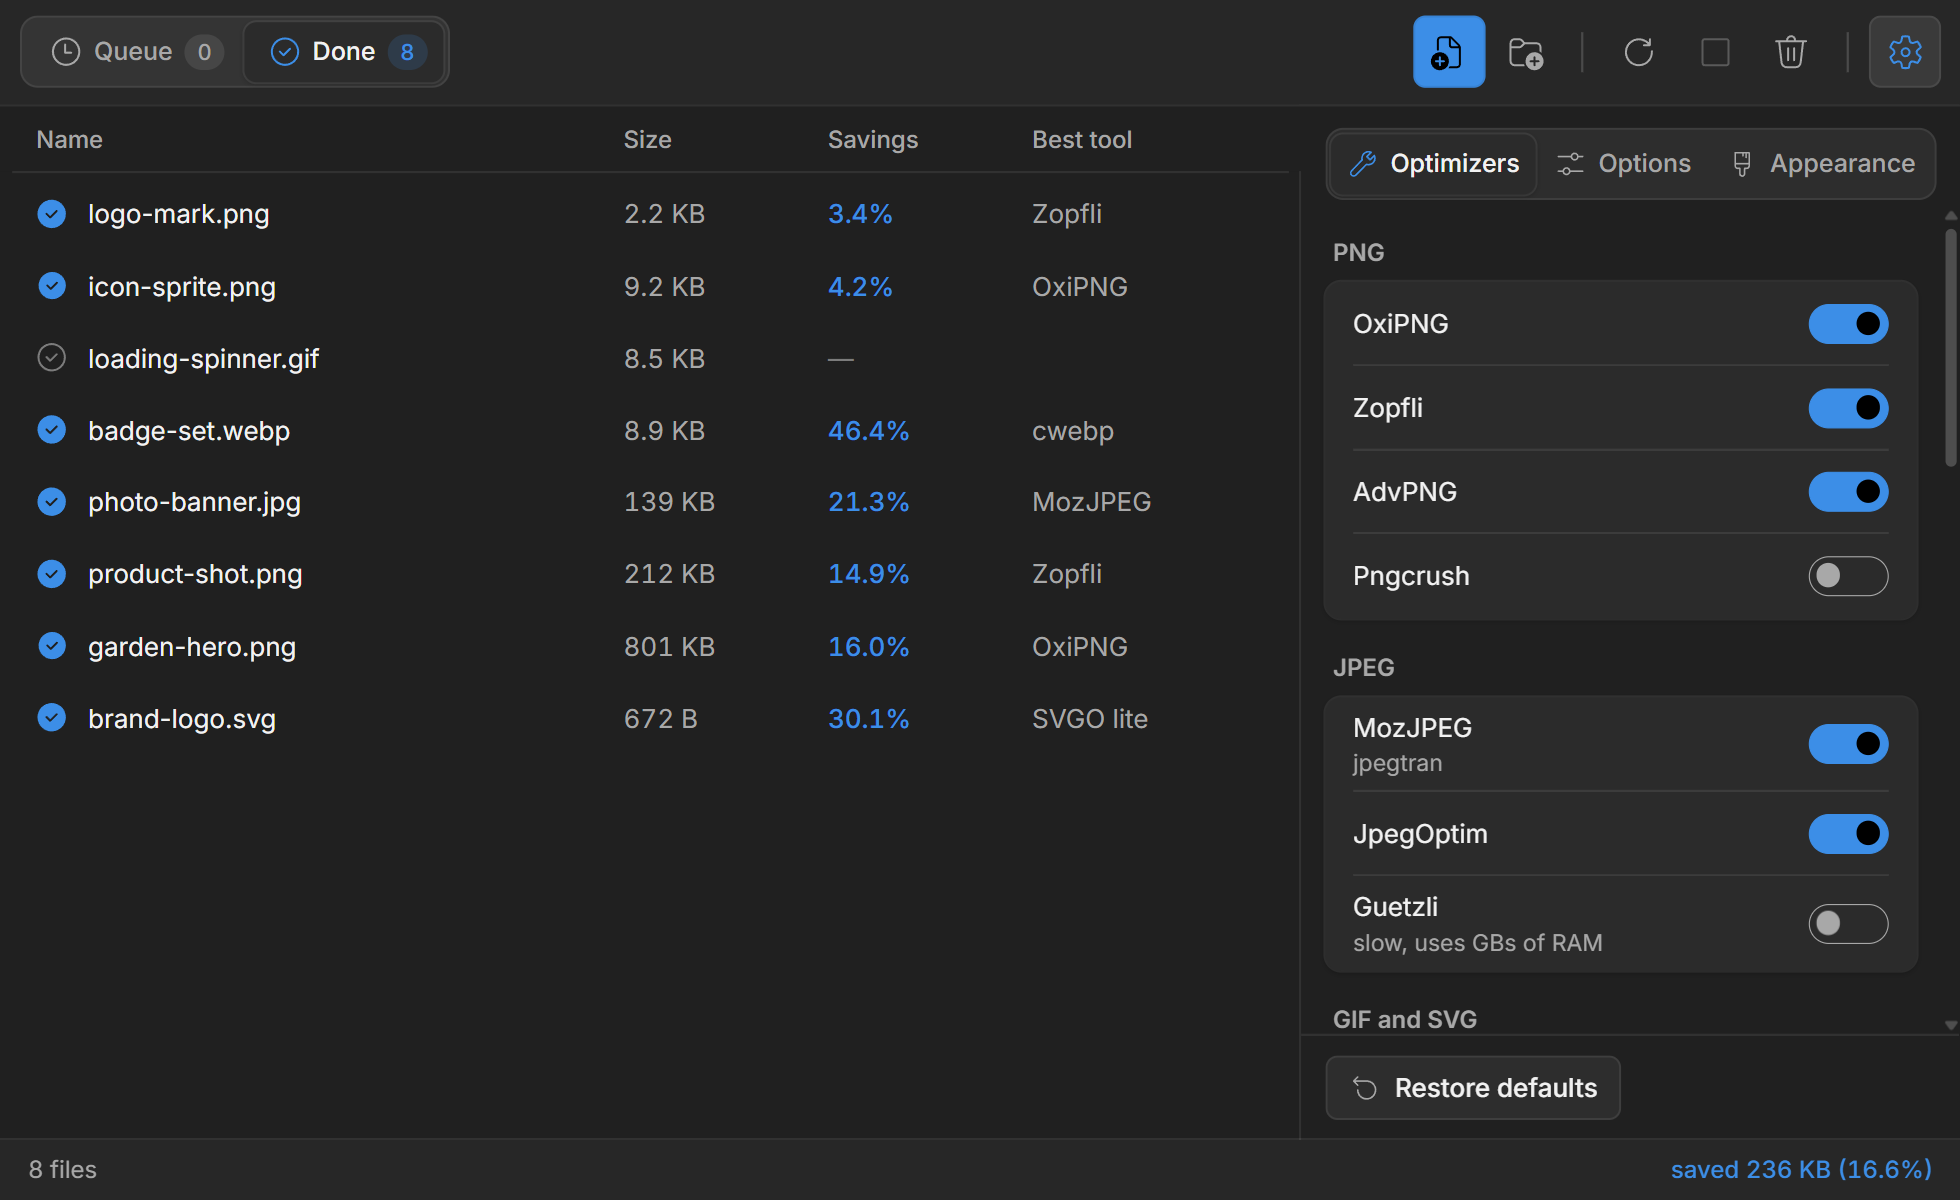
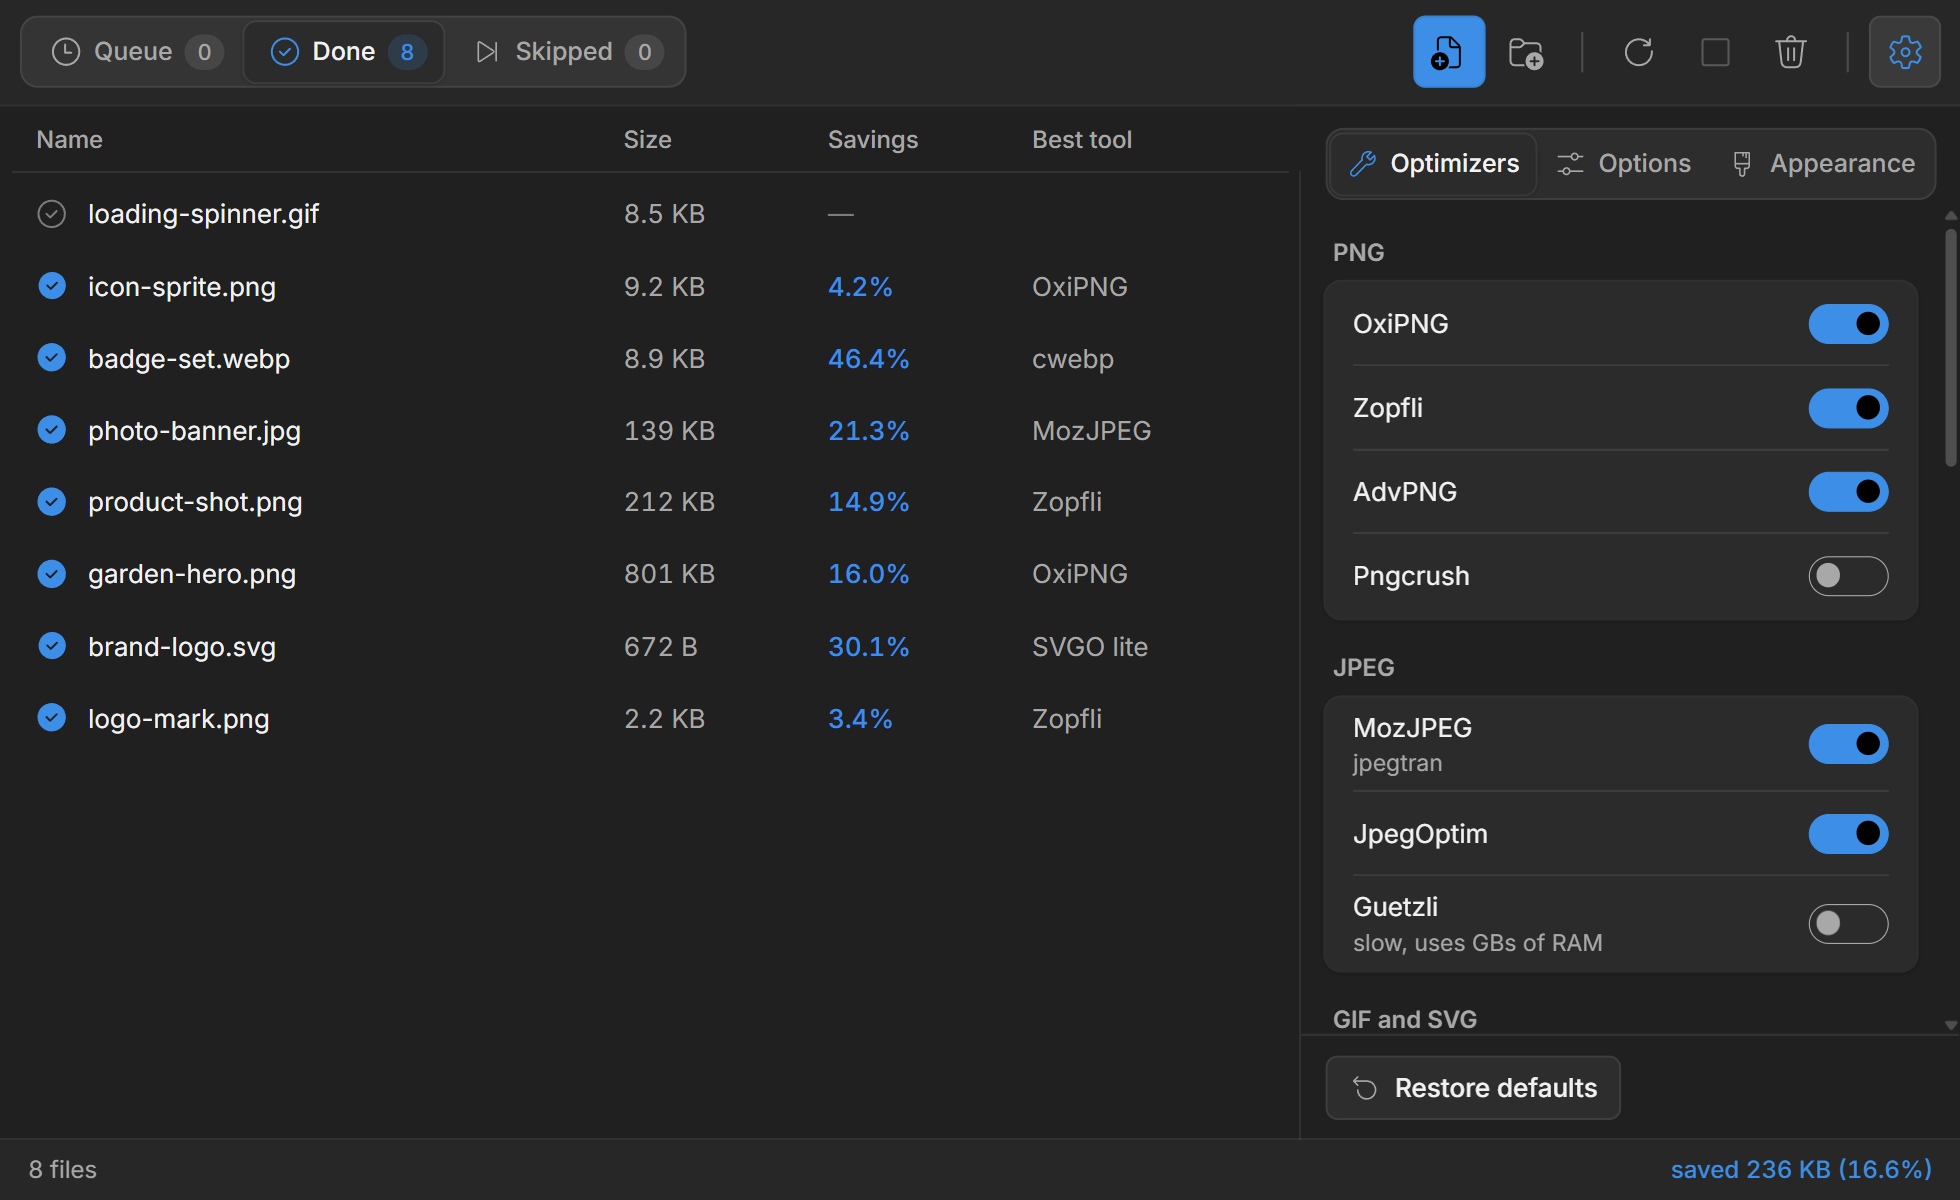
Give skipped files a tab of their own
Files an earlier run already optimized now go to a third tab, Skipped,
instead of mixing with Done. The window follows them there when every file
added was already optimized, or when a queue that turned out to hold only
such files runs out.

With three tabs the toolbar needs about 625 px with names, so the tab names
now give way below 640 px rather than 560 px, and below 480 px the bar packs
closer (32 px command buttons, tighter padding) to fit the 420 px minimum.
Screenshots retaken.

diff --git a/win/renderer/app.js b/win/renderer/app.js
@@ -89,8 +89,9 @@ function removeRow(id) {
 // --------------------------------------------------------- queue / done views
 
 // Queue holds what is waiting or being optimized; Done everything finished,
-// whether optimized, already optimal, failed, reverted or stopped. Which rows
-// show is decided by style.css from the pane's data-view and each row's
+// whether optimized, already optimal, failed, reverted or stopped; Skipped the
+// files an earlier run had already optimized, which were left alone. Which
+// rows show is decided by style.css from the pane's data-view and each row's
 // data-state; this keeps the counts and the empty-state text right.
 const listPaneEl = document.querySelector('.list-pane');
 const viewTabs = [...document.querySelectorAll('.list-tabs [role="tab"]')];
@@ -98,7 +99,8 @@ const emptyTitleEl = emptyEl.querySelector('.empty-title');
 const emptyHintEl = emptyEl.querySelector('.empty-hint');
 const emptyText = { title: emptyTitleEl.textContent, hint: emptyHintEl.innerHTML };
 let lastQueued = 0;
-let lastRows = 0;
+let lastDone = 0;
+let lastSkipped = 0;
 let keepOriginals = false; // Settings → Options → Keep originals
 
 const keptHint = 'PNG, JPEG, GIF, SVG, WebP and AVIF files, or whole folders.<br>'
@@ -125,23 +127,34 @@ function showView(view, focus = false) {
 
 function updateViews() {
     let queued = 0;
-    for (const tr of rows.values()) if (isQueued(tr.dataset.state)) queued += 1;
-    const done = rows.size - queued;
+    let skipped = 0;
+    for (const tr of rows.values()) {
+        if (isQueued(tr.dataset.state)) queued += 1;
+        else if (tr.dataset.state === 'skipped') skipped += 1;
+    }
+    const done = rows.size - queued - skipped;
     document.getElementById('count-queue').textContent = queued;
     document.getElementById('count-done').textContent = done;
+    document.getElementById('count-skipped').textContent = skipped;
 
     // Follow the work: new files bring the queue to the front, and when the
-    // last one finishes the results take its place.
-    // Files added that all go straight to Done - every one already optimized
-    // - show there too, rather than leaving an empty Queue in front.
+    // last one finishes the results take its place - under Done, or under
+    // Skipped if every file turned out to be optimized already. Files added
+    // that all go straight to Skipped show there too, rather than leaving an
+    // empty Queue in front.
     const view = listPaneEl.dataset.view;
-    const grew = rows.size > lastRows;
-    lastRows = rows.size;
-    if (queued > 0 && lastQueued === 0 && view !== 'queue') { lastQueued = queued; showView('queue'); return; }
-    if (queued === 0 && (lastQueued > 0 || grew) && done > 0 && view !== 'done') { lastQueued = 0; showView('done'); return; }
+    const doneGrew = done > lastDone;
+    const skippedGrew = skipped > lastSkipped;
+    lastDone = done;
+    lastSkipped = skipped;
+    let follow = null;
+    if (queued > 0 && lastQueued === 0) follow = 'queue';
+    else if (queued === 0 && lastQueued > 0) follow = done > 0 ? 'done' : skipped > 0 ? 'skipped' : null;
+    else if (queued === 0 && skippedGrew && !doneGrew) follow = 'skipped';
     lastQueued = queued;
+    if (follow && follow !== view) { showView(follow); return; }
 
-    const shown = view === 'queue' ? queued : done;
+    const shown = { queue: queued, done, skipped }[view];
     emptyEl.classList.toggle('hidden', shown > 0);
     if (rows.size === 0) {
         emptyTitleEl.textContent = emptyText.title;
@@ -149,6 +162,9 @@ function updateViews() {
     } else if (view === 'queue') {
         emptyTitleEl.textContent = 'Nothing in the queue';
         emptyHintEl.textContent = 'Finished files are under Done. Drop more images to optimize them.';
+    } else if (view === 'skipped') {
+        emptyTitleEl.textContent = 'Nothing skipped';
+        emptyHintEl.textContent = 'Files an earlier run already optimized come here instead of being optimized again.';
     } else {
         emptyTitleEl.textContent = 'Nothing finished yet';
         emptyHintEl.textContent = 'Files move here as soon as their optimization completes.';

diff --git a/win/renderer/style.css b/win/renderer/style.css
@@ -150,6 +150,7 @@ body {
 .i-theme-dark { --icon: url(icons/theme-dark.svg); }
 .i-queue { --icon: url(icons/state-queued.svg); }
 .i-done { --icon: url(icons/state-unchanged.svg); }
+.i-skipped { --icon: url(icons/skipped.svg); }
 
 /* ------------------------------------------------------------------ buttons */
 
@@ -245,8 +246,9 @@ button.command:not(.primary):hover:not(:disabled) .icon { color: var(--text); }
 #toggle-settings[aria-expanded="true"] .icon { color: var(--accent); }
 
 /* Narrow, the tabs keep their icons and counts; the names stay readable to
-   screen readers, and each tab has a tooltip. */
-@media (max-width: 560px) {
+   screen readers, and each tab has a tooltip. With their names the three tabs
+   and the commands need about 625 px. */
+@media (max-width: 640px) {
     .list-tabs .tab-label {
         position: absolute;
         width: 1px;
@@ -257,6 +259,17 @@ button.command:not(.primary):hover:not(:disabled) .icon { color: var(--text); }
     }
 
     .toolbar-divider { margin: 0 3px; }
+}
+
+/* Narrower still, down to the 420 px minimum: everything packs a little
+   closer. The buttons stay as tall as before, so the hit area stays 32 x 36. */
+@media (max-width: 480px) {
+    .toolbar { gap: 2px; padding-inline: 6px; }
+    .toolbar-spacer { min-width: 4px; }
+    /* .toolbar first, to outrank the tabs' own padding further down */
+    .toolbar .tabs.list-tabs [role="tab"] { padding: 0 6px 0 8px; }
+    button.command { width: 32px; }
+    .toolbar-divider { margin: 0 2px; }
 }
 
 /* --------------------------------------------------------------- file table */
@@ -288,15 +301,18 @@ main {
     display: flex;
 }
 
-/* Queue / Done: each view shows only its own rows (app.js keeps the counts).
-   #file-table in each selector, to outrank `#file-table tr { display: table }`. */
+/* Queue / Done / Skipped: each view shows only its own rows (app.js keeps
+   the counts). #file-table in each selector, to outrank
+   `#file-table tr { display: table }`. */
 .list-pane[data-view="queue"] #file-table tbody tr:not([data-state="queued"]):not([data-state="running"]),
 .list-pane[data-view="done"] #file-table tbody tr[data-state="queued"],
-.list-pane[data-view="done"] #file-table tbody tr[data-state="running"] {
+.list-pane[data-view="done"] #file-table tbody tr[data-state="running"],
+.list-pane[data-view="done"] #file-table tbody tr[data-state="skipped"],
+.list-pane[data-view="skipped"] #file-table tbody tr:not([data-state="skipped"]) {
     display: none;
 }
 
-/* Queue / Done, at the left of the toolbar. .tabs.list-tabs, to outrank the
+/* Queue / Done / Skipped, at the left of the toolbar. .tabs.list-tabs, to outrank the
    settings tabs' rules further down. */
 .tabs.list-tabs {
     flex: none;
@@ -445,8 +461,8 @@ tbody tr.running {
 }
 
 tr[data-state="done"] .state { --icon: url(icons/state-done.svg); color: var(--accent); }
-tr[data-state="unchanged"] .state,
-tr[data-state="skipped"] .state { --icon: url(icons/state-unchanged.svg); }
+tr[data-state="unchanged"] .state { --icon: url(icons/state-unchanged.svg); }
+tr[data-state="skipped"] .state { --icon: url(icons/skipped.svg); }
 tr[data-state="queued"] .state { --icon: url(icons/state-queued.svg); }
 tr[data-state="reverted"] .state { --icon: url(icons/state-reverted.svg); color: var(--text-dim); }
 tr[data-state="stopped"] .state { --icon: url(icons/stop.svg); }

diff --git a/win/renderer/index.html b/win/renderer/index.html
@@ -13,14 +13,18 @@
          The commands are icons only; aria-label names each one, and title
          gives it a tooltip with its shortcut from the menu. -->
     <header class="toolbar">
-        <!-- Files waiting or being optimized, and files that are finished
-             (optimized, already optimal, failed, reverted or stopped). -->
+        <!-- Files waiting or being optimized; files that are finished
+             (optimized, already optimal, failed, reverted or stopped); and
+             files an earlier run had already optimized, left alone. -->
         <div class="tabs list-tabs" role="tablist" aria-label="Files">
             <button type="button" role="tab" id="view-queue" data-view="queue" aria-controls="file-table" aria-selected="true" title="Files waiting or being optimized">
                 <span class="icon i-queue" aria-hidden="true"></span><span class="tab-label">Queue</span><span class="count" id="count-queue">0</span>
             </button>
             <button type="button" role="tab" id="view-done" data-view="done" aria-controls="file-table" aria-selected="false" tabindex="-1" title="Finished files">
                 <span class="icon i-done" aria-hidden="true"></span><span class="tab-label">Done</span><span class="count" id="count-done">0</span>
+            </button>
+            <button type="button" role="tab" id="view-skipped" data-view="skipped" aria-controls="file-table" aria-selected="false" tabindex="-1" title="Files an earlier run already optimized, left as they are">
+                <span class="icon i-skipped" aria-hidden="true"></span><span class="tab-label">Skipped</span><span class="count" id="count-skipped">0</span>
             </button>
         </div>
         <div class="toolbar-spacer"></div>

diff --git a/win/README.md b/win/README.md
@@ -366,12 +366,15 @@ fixed lightnesses, so text keeps its contrast whichever colour is picked. The
 Theme setting there sets Electron's `nativeTheme.themeSource`, which drives
 `prefers-color-scheme` in the page and the native controls alike.
 
-One bar runs along the top: the list's Queue and Done tabs on the left, and the
-commands on the right as icons, each with an `aria-label` and a tooltip that
-names its menu shortcut. The layout follows the window down to its 420 px
-minimum: the tabs drop their names and keep their icons and counts, the list
-drops Best tool and then Size through container queries on its own width, and
-below 720 px the settings panel overlays the list instead of squeezing it.
+One bar runs along the top: the list's Queue, Done and Skipped tabs on the
+left, and the commands on the right as icons, each with an `aria-label` and a
+tooltip that names its menu shortcut. The layout follows the window down to its
+420 px minimum:
+- below 640 px the tabs drop their names and keep their icons and counts;
+- below 480 px the bar packs a little closer;
+- the list drops Best tool and then Size through container queries on its own
+  width;
+- below 720 px the settings panel overlays the list instead of squeezing it.
 
 ## Saving safely
 
@@ -440,14 +443,23 @@ original's dates, and stays there. `lib/originals.js` holds the rules:
 
 Drop files or folders onto the window, or use the first two buttons on the right
 of the toolbar (Add files, Add a folder). Folders are scanned recursively for
-PNG, JPEG, GIF, SVG, WebP and AVIF. A file that an earlier run already optimized - in this
-session or a past one - goes straight to Done as "already optimized".
+PNG, JPEG, GIF, SVG, WebP and AVIF.
 
-The list has two tabs. **Queue** holds files waiting or being optimized;
-**Done** holds the finished ones - optimized, already optimal, failed, reverted
-or stopped. Adding files brings Queue to the front, and the window switches to
-Done when the last file in the queue finishes. Switching tabs clears the
-selection, so Delete and Ctrl+Z never act on rows out of sight.
+The list has three tabs:
+- **Queue** holds files waiting or being optimized.
+- **Done** holds the finished ones: optimized, already optimal, failed,
+  reverted or stopped.
+- **Skipped** holds files an earlier run had already optimized, in this
+  session or a past one, which were left as they are.
+
+The window follows the work:
+- Adding files brings Queue to the front.
+- When the last file in the queue finishes, the window switches to Done, or to
+  Skipped if every file was already optimized.
+- Files added that all go straight to Skipped show there.
+
+Switching tabs clears the selection, so Delete and Ctrl+Z never act on rows out
+of sight.
 
 While files are queued, a bar along the top of the status bar and the
 taskbar button fill up, and the status bar says how many files are done and

diff --git a/README.md b/README.md
@@ -18,15 +18,15 @@ like the macOS app, and WebP and AVIF as well: lossless WebP is recompressed
 losslessly with cwebp and EXIF and XMP are stripped, and with lossy
 minification on, lossy WebP and AVIF are re-encoded (cwebp, avifenc) when that
 saves at least 5%. One bar runs along the top: the
-**Queue** and **Done** tabs on the left, the commands as icons on the right.
-Files waiting or being optimized are under Queue; each one moves to Done as it
-finishes, and the window switches to Done when the queue runs out.
+**Queue**, **Done** and **Skipped** tabs on the left, the commands as icons on
+the right. Files waiting or being optimized are under Queue; each one moves to
+Done as it finishes, and the window switches to Done when the queue runs out.
 
 While files are queued, a bar at the bottom of the window and the taskbar
 button fill up, and the status bar shows how many are done and about how long
 is left. The time is learned from the files as they finish. Files an earlier
 run already optimized, in this session or a past one, are recognised by their
-content and go straight to Done.
+content and go straight to Skipped, left as they are.
 
 ![Two large PNGs still running, each row's line over its track, and the bar and time left along the bottom](docs/screenshots/progress-light.png)
 
@@ -93,7 +93,7 @@ with MinGW-w64 under MSYS2, and `win/` packages the app around them. See
 plans and the Zopfli size threshold were derived.
 
 The screenshots above were taken on Windows 11 from a real run, and were
-themselves optimized by this build: 36.4% smaller, Zopfli winning all five.
+themselves optimized by this build: 36.6% smaller, Zopfli winning all five.
 
 ---
 
